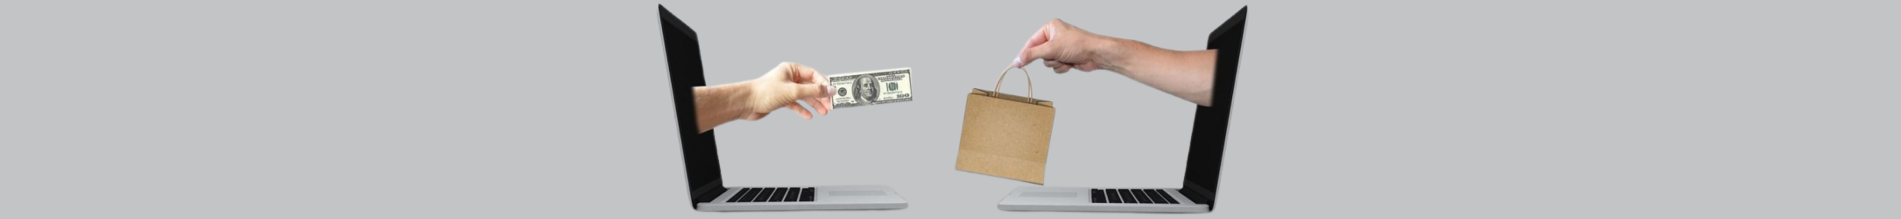
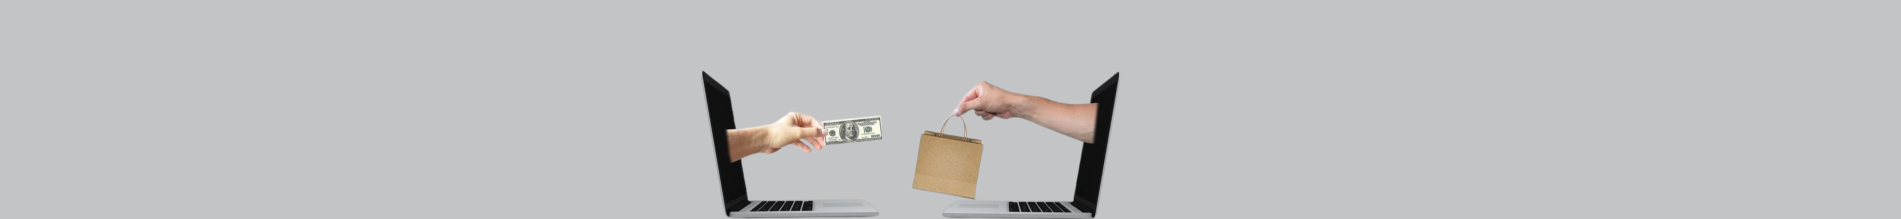
edit hero product

Changed region(s): [[0.3414, 0.0274, 0.6828, 1.0]]

diff --git a/dist/css/index.min.css b/dist/css/index.min.css
@@ -1,1 +1,1 @@
-body{margin:0;font-family:Arial,sans-serif;line-height:1.6}header{padding:15px 30px;background:#055f9e;display:flex;justify-content:space-between;align-items:center}header{color:#fff;padding:15px 20px;display:flex;justify-content:space-between;align-items:center;height:5rem}header h1 img{margin:0;height:5rem;width:5rem}header nav a{color:#fff;margin:0 10px;text-decoration:none;border-radius:5px;padding:10px}header nav a:hover{text-decoration:underline;background-color:#8d99ae}header{display:flex;justify-content:space-between;align-items:center;padding:10px 20px}header nav{display:flex;gap:20px}header nav a{text-decoration:none;color:#000}.hamburger{display:none;flex-direction:column;cursor:pointer;gap:5px}.hamburger span{width:25px;height:3px;background-color:#000;display:block}@media(max-width: 768px){header nav{position:absolute;top:60px;left:-100%;flex-direction:column;width:100%;background-color:#edf2f4;transition:.3s;padding:10px 0;box-shadow:0 4px 6px rgba(0,0,0,.1)}header nav.active{left:0}.hamburger{display:flex}}footer{background:#055f9e;color:#fff;text-align:center;padding:20px;margin-top:20px}footer{background:#333;color:#fff;text-align:center;padding:20px}footer .social-icons{margin-top:10px}footer .social-icons a{color:#fff;margin:0 10px;font-size:20px;transition:color .3s ease}footer .social-icons a:hover{color:#f60}.content{display:flex;justify-content:space-around;padding:40px 20px}.content .card{background:#f4f4f4;padding:20px;border-radius:10px;width:30%;text-align:center;box-shadow:0 2px 5px rgba(0,0,0,.1)}.content .card h3{margin-top:0}.content .card:hover{box-shadow:rgba(0,0,0,.35) 0px 5px 15px}header nav #about{text-decoration:none;background-color:#8d99ae;border-radius:5px;padding:10px}.hero-bg{background:url("https://i.pinimg.com/736x/65/ed/e2/65ede2c36a79d8157e4d02c5dd017091.jpg") no-repeat center center/cover;color:#fff;text-align:center;padding:100px 20px}.hero-bg h2{font-size:2.5rem}.hero-bg button{padding:10px 20px;margin-top:20px;background:#f60;color:#fff;border:none;cursor:pointer;font-size:1rem}.hero-bg button:hover{background:#e65c00}.card ul{list-style:none;padding:0;margin:0}.card ul li{margin-bottom:8px}.content.about-content{display:flex;gap:20px;justify-content:space-between}@media(max-width: 768px){.content.about-content{flex-direction:column;align-items:center}.content.about-content .card{width:100%;max-width:400px}}.hero{background:url("/Image/hero-home.png") no-repeat center center/cover;color:#fff;text-align:center;padding:100px 20px}.hero h2{font-size:2.5rem}.hero button{padding:10px 20px;margin-top:20px;background:#f60;color:#fff;border:none;cursor:pointer;font-size:1rem}.hero button:hover{background:#e65c00}header nav #home{text-decoration:none;background-color:#8d99ae;border-radius:5px;padding:10px}body{margin:0;font-family:Arial,sans-serif}.main-services{background:#111;color:#fff}header nav #services{text-decoration:none;background-color:#8d99ae;border-radius:5px;padding:10px}header nav a{color:#fff;margin:0 15px;text-decoration:none}.services-section{display:flex;flex-wrap:wrap;align-items:center;padding:60px 10%;gap:40px}.services-text{flex:1;min-width:300px}.services-text h2{text-align:center}.services-list{display:grid;grid-template-columns:repeat(2, 1fr);gap:30px;margin-top:30px}.service-item{text-align:center}.service-item i{margin-bottom:5px;font-size:40px;color:#ccc;width:50px;margin-bottom:15px}.services-image{flex:1;min-width:300px}.services-image img{width:100%;border-radius:10px;-o-object-fit:cover;object-fit:cover}footer{background:#222;color:#ccc;text-align:center;padding:20px;margin-top:40px}@media(max-width: 768px){.services-section{flex-direction:column}.services-list{grid-template-columns:1fr}}header nav #contact{text-decoration:none;background-color:#8d99ae;border-radius:5px;padding:10px}.contact-section{display:flex;justify-content:space-between;align-items:center;padding:50px;background:#e6f0fa;flex-wrap:wrap;margin-bottom:0}.contact-form{margin-left:300px;flex:1;max-width:60%;background:#fff;padding:25px;border-radius:10px;box-shadow:0 4px 10px rgba(0,0,0,.1);margin-bottom:20px}.contact-form h2{margin-bottom:20px;font-size:24px;color:#333}.input-box{max-width:91%;position:relative;margin-bottom:15px}.input-box i{position:absolute;left:10px;top:50%;transform:translateY(-50%);color:#888}.input-box input,.input-box textarea{width:100%;padding:12px 12px 12px 35px;border:1px solid #ccc;border-radius:8px;outline:none}.input-box textarea{height:100px;resize:none}.button-message{width:100%;padding:12px;background:#00bcd4;border:none;border-radius:8px;color:#fff;font-size:16px;cursor:pointer}button:hover{background:#0097a7}.contact-image{flex:1;text-align:center}.contact-image img{max-width:60%;height:auto}header nav #products{text-decoration:none;background-color:#8d99ae;border-radius:5px;padding:10px}.header-products{position:fixed;top:0;left:0;width:100%;z-index:1000;padding:10px 20px;margin-right:20px;display:flex;align-items:center;justify-content:space-between;box-shadow:0 2px 6px rgba(0,0,0,.2)}.products-header{text-align:center;background:url("https://i.pinimg.com/736x/33/8d/e6/338de6bfe508cdef8ed93a41bb2d8ad1.jpg") no-repeat center center/cover;color:#fff;padding:80px 20px;margin-bottom:30px;border-radius:8px}.products-header h2{font-size:32px;font-weight:700;margin-bottom:10px;text-shadow:1px 1px 3px rgba(0,0,0,.6)}.products-header p{font-size:18px;margin:0;text-shadow:1px 1px 2px rgba(0,0,0,.5)}.products-container{display:grid;grid-template-columns:repeat(auto-fit, minmax(250px, 1fr));gap:20px;padding:40px}.product-card{background:#fff;border-radius:10px;box-shadow:0 4px 8px rgba(0,0,0,.1);padding:20px;text-align:center;transition:transform .2s ease}.product-card:hover{transform:translateY(-5px)}.product-card img{width:100%;height:180px;-o-object-fit:cover;object-fit:cover;border-radius:8px}.product-card h3{margin:15px 0 10px;font-size:1.2rem}.product-card p{font-size:1rem;font-weight:bold;color:#007bff}.product-card button{margin-top:10px;background:#007bff;color:#fff;border:none;padding:10px 20px;border-radius:5px;cursor:pointer;transition:background .3s ease}.product-card button:hover{background:#0056b3}.product-card .price{font-size:1rem;font-weight:bold;color:#007bff;margin-bottom:8px}.product-card .desc{font-size:.9rem;color:#555;margin-bottom:15px}.search-bar{display:flex;justify-content:center;margin-right:50px}.search-bar input{padding:10px;width:250px;border:1px solid #ccc;border-radius:5px 0 0 5px;outline:none}.search-bar button{padding:10px 20px;border:none;background:#007bff;color:#fff;border-radius:0 5px 5px 0;cursor:pointer}.search-bar button:hover{background:#0056b3}.footer-products{gap:50px;display:flex;justify-content:center}.info{margin-top:16px;display:flex;flex-direction:column;align-items:flex-start}.info a{color:#fff}.social-media{display:flex;flex-direction:column}/*# sourceMappingURL=index.min.css.map */
+body{margin:0;font-family:Arial,sans-serif;line-height:1.6}header{padding:15px 30px;background:#055f9e;display:flex;justify-content:space-between;align-items:center}header{color:#fff;padding:15px 20px;display:flex;justify-content:space-between;align-items:center;height:5rem}header h1 img{margin:0;height:5rem;width:5rem}header nav a{color:#fff;margin:0 10px;text-decoration:none;border-radius:5px;padding:10px}header nav a:hover{text-decoration:underline;background-color:#8d99ae}header{display:flex;justify-content:space-between;align-items:center;padding:10px 20px}header nav{display:flex;gap:20px}header nav a{text-decoration:none;color:#000}.hamburger{display:none;flex-direction:column;cursor:pointer;gap:5px}.hamburger span{width:25px;height:3px;background-color:#000;display:block}@media(max-width: 768px){header nav{position:absolute;top:60px;left:-100%;flex-direction:column;width:100%;background-color:#edf2f4;transition:.3s;padding:10px 0;box-shadow:0 4px 6px rgba(0,0,0,.1)}header nav.active{left:0}.hamburger{display:flex}}footer{background:#055f9e;color:#fff;text-align:center;padding:20px;margin-top:20px}footer{background:#333;color:#fff;text-align:center;padding:20px}footer .social-icons{margin-top:10px}footer .social-icons a{color:#fff;margin:0 10px;font-size:20px;transition:color .3s ease}footer .social-icons a:hover{color:#f60}.content{display:flex;justify-content:space-around;padding:40px 20px}.content .card{background:#f4f4f4;padding:20px;border-radius:10px;width:30%;text-align:center;box-shadow:0 2px 5px rgba(0,0,0,.1)}.content .card h3{margin-top:0}.content .card:hover{box-shadow:rgba(0,0,0,.35) 0px 5px 15px}header nav #about{text-decoration:none;background-color:#8d99ae;border-radius:5px;padding:10px}.hero-bg{background:url("https://i.pinimg.com/736x/65/ed/e2/65ede2c36a79d8157e4d02c5dd017091.jpg") no-repeat center center/cover;color:#fff;text-align:center;padding:100px 20px}.hero-bg h2{font-size:2.5rem}.hero-bg button{padding:10px 20px;margin-top:20px;background:#f60;color:#fff;border:none;cursor:pointer;font-size:1rem}.hero-bg button:hover{background:#e65c00}.card ul{list-style:none;padding:0;margin:0}.card ul li{margin-bottom:8px}.content.about-content{display:flex;gap:20px;justify-content:space-between}@media(max-width: 768px){.content.about-content{flex-direction:column;align-items:center}.content.about-content .card{width:100%;max-width:400px}}.hero{background:url("/Image/hero-home.png") no-repeat center center/cover;color:#fff;text-align:center;padding:100px 20px}.hero h2{font-size:2.5rem}.hero button{padding:10px 20px;margin-top:20px;background:#f60;color:#fff;border:none;cursor:pointer;font-size:1rem}.hero button:hover{background:#e65c00}header nav #home{text-decoration:none;background-color:#8d99ae;border-radius:5px;padding:10px}body{margin:0;font-family:Arial,sans-serif}.main-services{background:#111;color:#fff}header nav #services{text-decoration:none;background-color:#8d99ae;border-radius:5px;padding:10px}header nav a{color:#fff;margin:0 15px;text-decoration:none}.services-section{display:flex;flex-wrap:wrap;align-items:center;padding:60px 10%;gap:40px}.services-text{flex:1;min-width:300px}.services-text h2{text-align:center}.services-list{display:grid;grid-template-columns:repeat(2, 1fr);gap:30px;margin-top:30px}.service-item{text-align:center}.service-item i{margin-bottom:5px;font-size:40px;color:#ccc;width:50px;margin-bottom:15px}.services-image{flex:1;min-width:300px}.services-image img{width:100%;border-radius:10px;-o-object-fit:cover;object-fit:cover}footer{background:#222;color:#ccc;text-align:center;padding:20px;margin-top:40px}@media(max-width: 768px){.services-section{flex-direction:column}.services-list{grid-template-columns:1fr}}header nav #contact{text-decoration:none;background-color:#8d99ae;border-radius:5px;padding:10px}.contact-section{display:flex;justify-content:space-between;align-items:center;padding:50px;background:#e6f0fa;flex-wrap:wrap;margin-bottom:0}.contact-form{margin-left:300px;flex:1;max-width:60%;background:#fff;padding:25px;border-radius:10px;box-shadow:0 4px 10px rgba(0,0,0,.1);margin-bottom:20px}.contact-form h2{margin-bottom:20px;font-size:24px;color:#333}.input-box{max-width:91%;position:relative;margin-bottom:15px}.input-box i{position:absolute;left:10px;top:50%;transform:translateY(-50%);color:#888}.input-box input,.input-box textarea{width:100%;padding:12px 12px 12px 35px;border:1px solid #ccc;border-radius:8px;outline:none}.input-box textarea{height:100px;resize:none}.button-message{width:100%;padding:12px;background:#00bcd4;border:none;border-radius:8px;color:#fff;font-size:16px;cursor:pointer}button:hover{background:#0097a7}.contact-image{flex:1;text-align:center}.contact-image img{max-width:60%;height:auto}header nav #products{text-decoration:none;background-color:#8d99ae;border-radius:5px;padding:10px}.header-products{position:fixed;top:0;left:0;width:100%;z-index:1000;padding:10px 20px;margin-right:20px;display:flex;align-items:center;justify-content:space-between;box-shadow:0 2px 6px rgba(0,0,0,.2)}.products-header{text-align:center;background:#acb3ba;color:#fff;padding:80px 20px;margin-bottom:30px}.products-header h2{font-size:32px;font-weight:700;margin-bottom:10px;text-shadow:1px 1px 3px rgba(0,0,0,.6)}.products-header p{font-size:18px;margin:0;text-shadow:1px 1px 2px rgba(0,0,0,.5)}.products-container{display:grid;grid-template-columns:repeat(auto-fit, minmax(250px, 1fr));gap:20px;padding:40px}.product-card{background:#fff;border-radius:10px;box-shadow:0 4px 8px rgba(0,0,0,.1);padding:20px;text-align:center;transition:transform .2s ease}.product-card:hover{transform:translateY(-5px)}.product-card img{width:100%;height:180px;-o-object-fit:cover;object-fit:cover;border-radius:8px}.product-card h3{margin:15px 0 10px;font-size:1.2rem}.product-card p{font-size:1rem;font-weight:bold;color:#007bff}.product-card button{margin-top:10px;background:#007bff;color:#fff;border:none;padding:10px 20px;border-radius:5px;cursor:pointer;transition:background .3s ease}.product-card button:hover{background:#0056b3}.product-card .price{font-size:1rem;font-weight:bold;color:#007bff;margin-bottom:8px}.product-card .desc{font-size:.9rem;color:#555;margin-bottom:15px}.search-bar{display:flex;justify-content:center;margin-right:50px}.search-bar input{padding:10px;width:250px;border:1px solid #ccc;border-radius:5px 0 0 5px;outline:none}.search-bar button{padding:10px 20px;border:none;background:#007bff;color:#fff;border-radius:0 5px 5px 0;cursor:pointer}.search-bar button:hover{background:#0056b3}.footer-products{gap:50px;display:flex;justify-content:center}.info{margin-top:16px;display:flex;flex-direction:column;align-items:flex-start}.info a{color:#fff}.social-media{display:flex;flex-direction:column}/*# sourceMappingURL=index.min.css.map */

diff --git a/scss/components/_products.scss b/scss/components/_products.scss
@@ -27,11 +27,12 @@ header nav {
 
 .products-header {
   text-align: center;
-  background: url("image/hero-product.png") no-repeat center center/cover;
+  // background: url("/Image/hero-product.png") no-repeat center center/cover;
+  background: #acb3ba;
   color: #fff; // make text visible on image
   padding: 80px 20px; // spacing for nicer look
   margin-bottom: 30px;
-  border-radius: 8px; // optional for smooth edges
+  // border-radius: 8px; // optional for smooth edges
 
   h2 {
     font-size: 32px;
